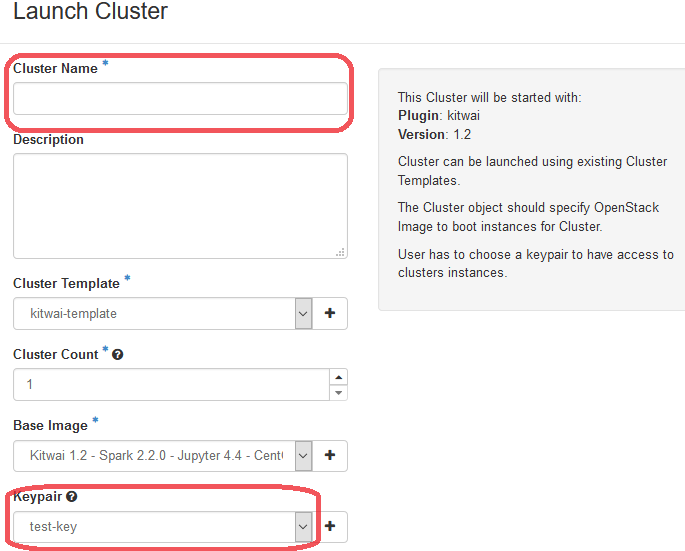
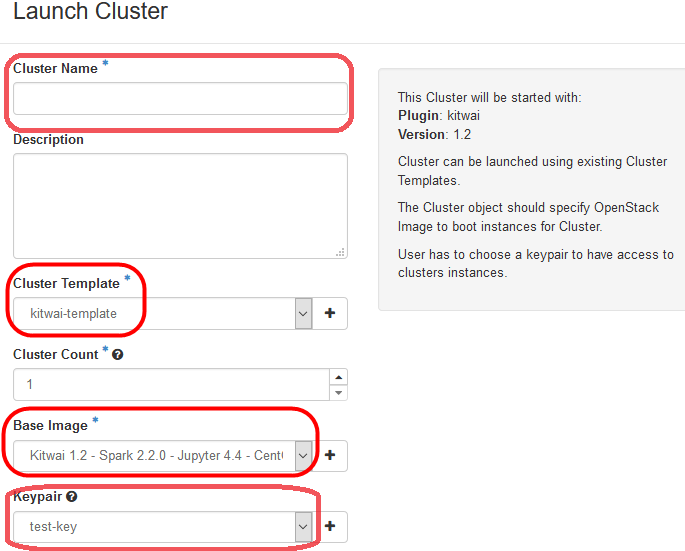
Add more into model deployment

Changed region(s): [[0.0, 0.7096, 0.4599, 0.8947], [0.0, 0.4628, 0.2146, 0.6171], [0.4599, 0.7713, 0.4905, 0.833]]

diff --git a/deploy/deploy.md b/deploy/deploy.md
@@ -1,8 +1,11 @@
 # How to Deploy a Spark ML model
 
-Under Construction
+After the model is built and exported into PMML file, users can deploy the model in production. In this tutorial, we'll demonstrate how to use KitWai to launch and deploy a PMML model on an Openscoring cluster.
+
+An Openscoring cluster consists of a HAProxy and a number of Openscoring nodes. The HAProxy is exposed to the Internet and balance the prediction request to all Openscoring nodes.
 
 ## 1. Upload the PMML model into Swift storage
+Assume a PMML model in /tmp/churn.pmml. Refer to [Train a Machine Learning Model with Jupyter Notebook](/jupyter/jupyter.md) for building such a model.
 
 Open a console terminal in Jupyter notebook. Use swift command to upload the model.
 
@@ -12,7 +15,7 @@ swift --insecure upload model churn.pmml
 churn.pmml
 ```
 
-Users may see InsecureRequestWarning messages. This is due to our self-signed certificate which can be ignored.
+The option --insecure is used for our self-signed certificate. Users may see some InsecureRequestWarning messages which can be ignored.
 
 ```
 /usr/lib/python2.7/site-packages/urllib3/connectionpool.py:858: InsecureRequestWarning: Unverified HTTPS request is being made. Adding certificate verification is strongly advised. See: https://urllib3.readthedocs.io/en/latest/advanced-usage.html#ssl-warnings
@@ -29,11 +32,15 @@ churn.pmml
 
 ## 2. Launch an Openscoring cluster with a PMML model
 
+Similar to [Launch a Spark Cluster](/launchcluster/launchcluster.md) except the following steps
+
 Select Openscoring plugin
 
-Select openscoring cluster template
+   <img src="openscoring_plugin.png" width="300">
 
-Add the following Cluster Configs in Launch Cluster. These configs can be set in Cluster Template too.
+Select _openscoring_ Cluster Template and _Openscoring 1.4.0_ Base Image. By this template, one HAProxy and one Openscoring node will be launched.
+
+Add the following Cluster Configs in Launch Cluster. These configs is specific to the PMML model that has been uploaded into Swift previously. The configs must be expressed in JSON format. Note that, the Cluster Configs can be set when creating a Cluster Template too.
 
 ```json
 {
@@ -44,4 +51,36 @@ Add the following Cluster Configs in Launch Cluster. These configs can be set in
 }
 ```
 
+   <img src="openscoring_configs.png" width="400">
+
+
+After the Openscoring cluster has been launched, find the public (floating) IP address of the HAProxy node.
+
 ## 3. Evaluate the model
+
+On the client machines, install openscoring python client library.
+
+```shell
+pip install openscoring
+```
+
+Then, execute the following code.
+
+```python
+from openscoring import Openscoring
+import pandas as pd
+from io import StringIO
+
+test_data = """State,Account length,Area code,International plan,Voice mail plan,Number vmail messages,Total day minutes,Total day calls,Total day charge,Total eve minutes,Total eve calls,Total eve charge,Total night minutes,Total night calls,Total night charge,Total intl minutes,Total intl calls,Total intl charge,Customer service calls,Churn
+LA,117,408,No,No,0,184.5,97,31.37,351.6,80,29.89,215.8,90,9.71,8.7,4,2.35,1,False
+IN,65,415,No,No,0,129.1,137,21.95,228.5,83,19.42,208.8,111,9.4,12.7,6,3.43,4,True
+"""
+
+df = pd.read_csv(StringIO(test_data))
+os = Openscoring("http://ip_address_of_haproxy/openscoring")
+result = os.evaluateCsv('churn',df)
+
+print (result)
+```
+
+The result returned from Openscoring is of DataFrame type.

diff --git a/jupyter/jupyter.md b/jupyter/jupyter.md
@@ -759,7 +759,7 @@ Users can try to adjust training parameters to improve the accuracy of predictio
 
 ## 7. Export the trained model for deployment
 
-Export the model into PMML format. The PMML file can be downloaded and deployed with other tools such as [Openscoring](https://github.com/openscoring/openscoring). Users can also deploy the PMML model with KitWai Openscoring cluster. See [How to Deploy a Spark ML Model](deploy/deploy.md) for more details.
+Export the model into PMML format. The PMML file can be downloaded and deployed with other tools such as [Openscoring](https://github.com/openscoring/openscoring). Users can also deploy the PMML model with KitWai Openscoring cluster. See [How to Deploy a Spark ML Model](/deploy/deploy.md) for more details.
 
 ```python
 from jpmml_sparkml import toPMMLBytes
